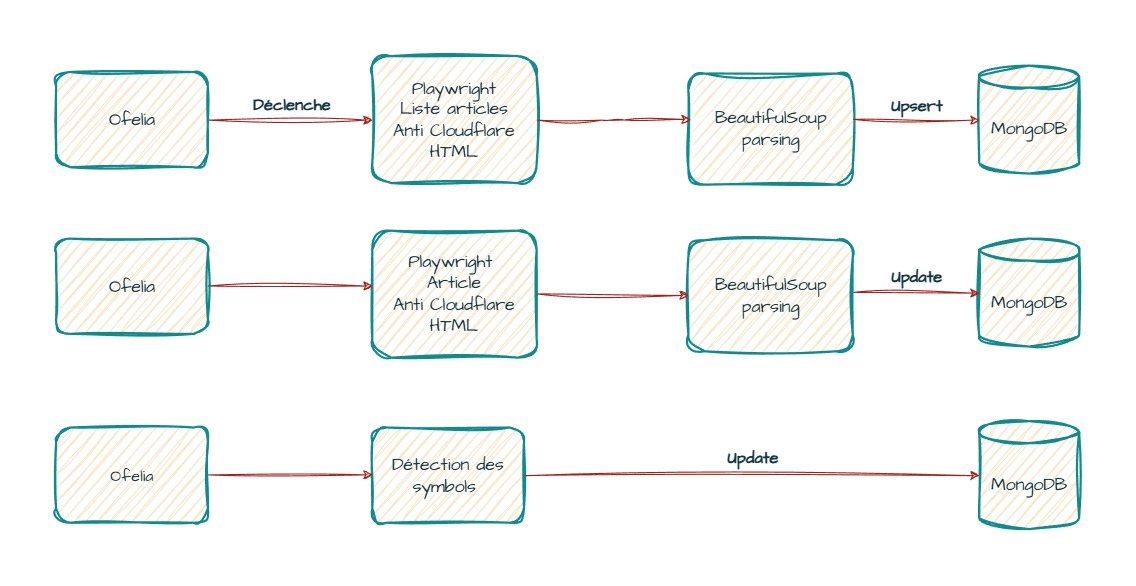
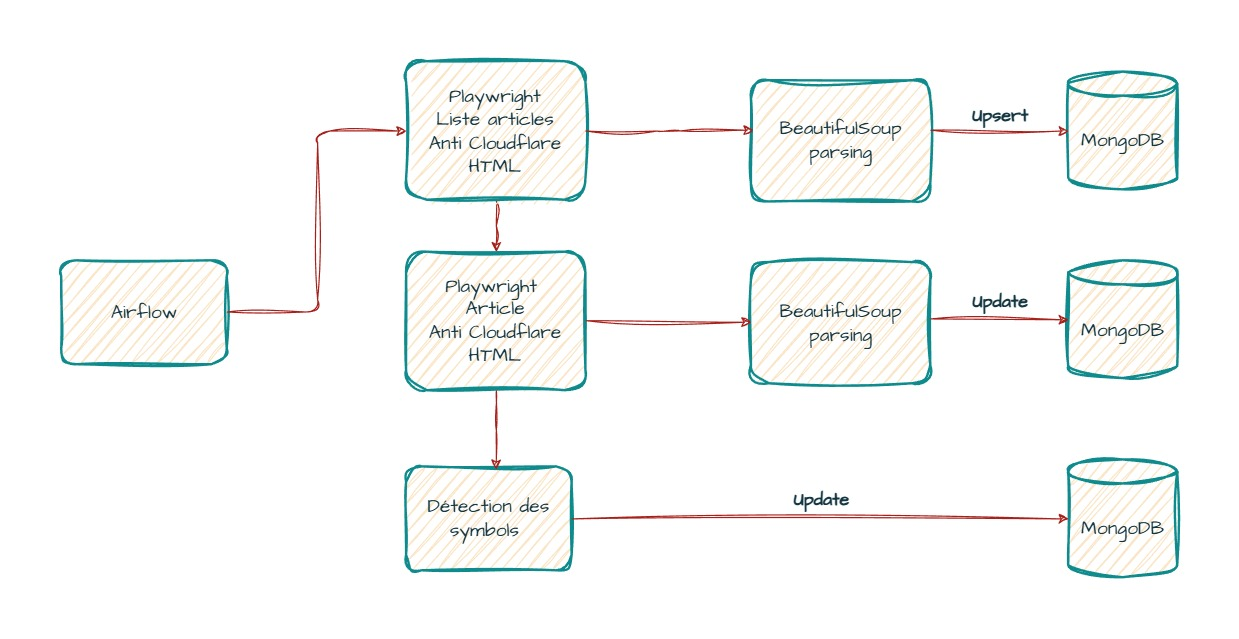
Update streamlist slides using ofelia/airflow

diff --git a/src/visualization/streamlit/slides/architecture.py b/src/visualization/streamlit/slides/architecture.py
@@ -14,6 +14,7 @@ with left:
         "<strong>Docker Compose</strong><br/>Les services techniques sont isolés et reproductibles.",
         "<strong>MongoDB & PostgreSQL</strong><br/>MongoDB conserve les données brutes alors que PostgreSQL conserve les données structurées pour l'entrainement, la prédiction, et la visualisation.",
         "<strong>FastAPI & Streamlit</strong><br/>L’API expose les données et Streamlit rend le projet lisible et démontrable au travers de différents dashboard.",
+        "<strong>Airflow</strong><br/>L’orchestration automatise les traitements planifiés du projet afin de lancer les pipelines au bon moment, suivre leur état et identifier rapidement les échecs.",
         "<strong>Prometheus + Grafana</strong><br/>La supervision suit l’état de la machine, de FastAPI et de Docker afin d’identifier rapidement erreurs, lenteurs ou saturation."
     ])
 with right:

diff --git a/src/visualization/streamlit/slides/limites.py b/src/visualization/streamlit/slides/limites.py
@@ -10,7 +10,7 @@ slide_header(
 
 bullets([
     "<strong>Données marchés</strong><br/>Récolter un historique plus conséquent afin d'avoir une qualité prédictive accrue.",
-    "<strong>Scraping</strong><br/>Prévoir du monitoring et  des alertes en cas de changement de structure HTML. Scraper de nouvelles sources.",
-    "<strong>Orchestration</strong><br/>Remplacer progressivement les scripts planifiés par un orchestrateur type Airflow.",
+    "<strong>Scraping</strong><br/>Prévoir du monitoring et des alertes en cas de changement de structure HTML. Scraper de nouvelles sources via scrapping d'api.",
+    "<strong>Orchestration</strong><br/>Continuer le remplacement progressif des scripts planifiés via Ofelia par Airflow.",
     "<strong>Modèles</strong><br/>Ajouter du backtesting, comparaison de modèles et métriques métier."
 ])
